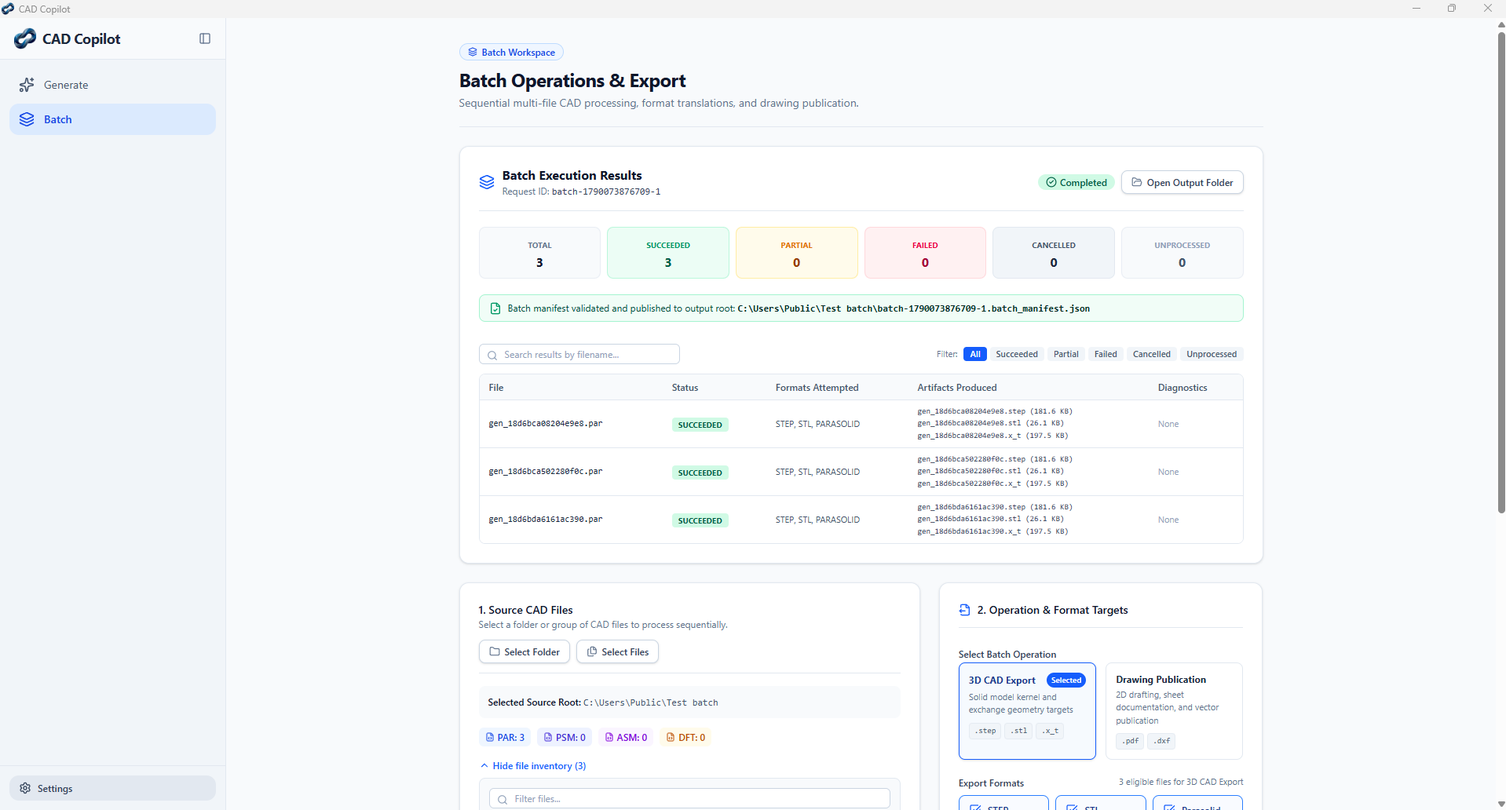
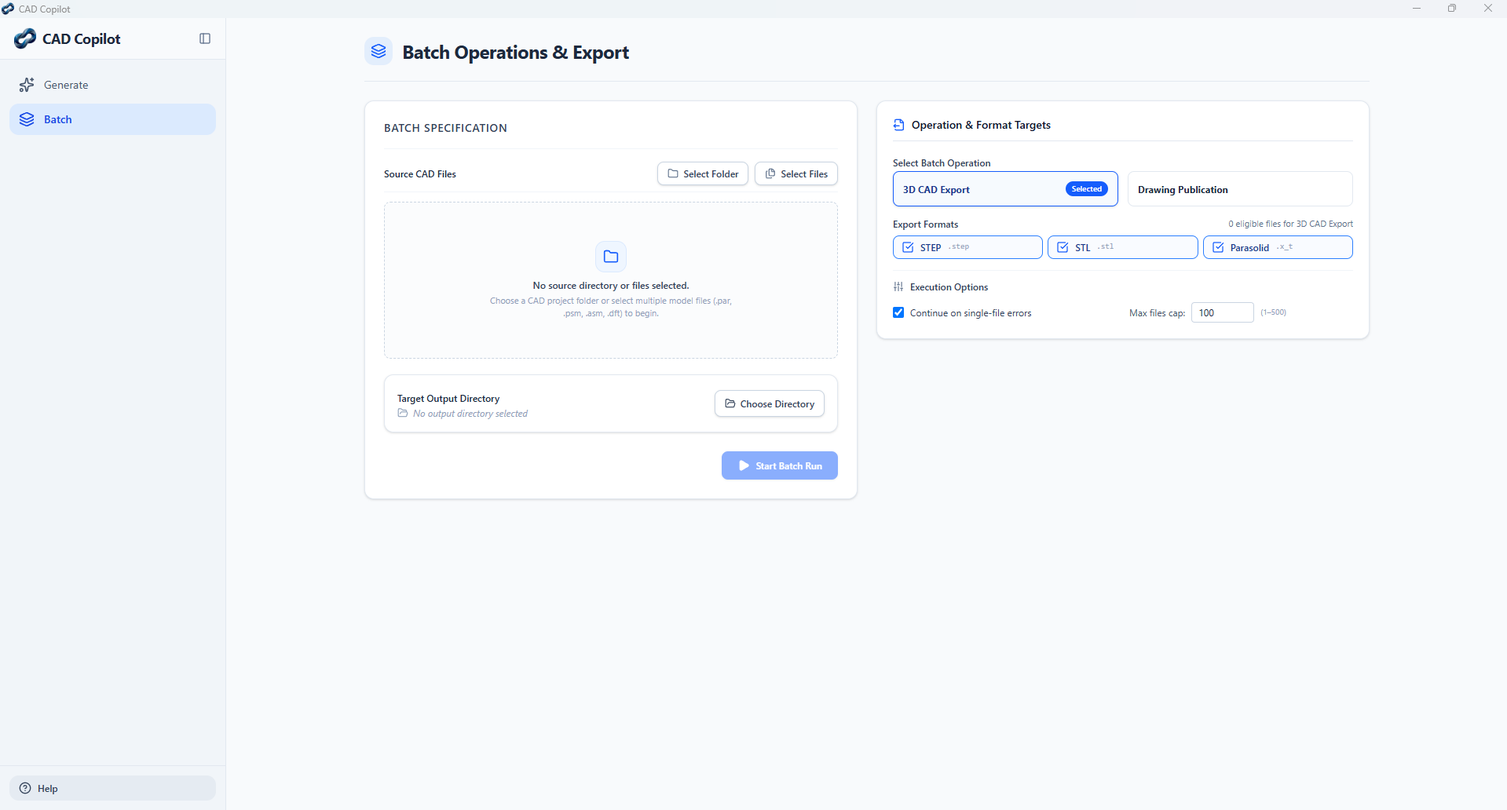
docs(desktop): [PORT-05/QA-07] document workflows and Community Edition setup

diff --git a/docs/requirements.md b/docs/requirements.md
@@ -2,7 +2,7 @@
 
 **Project**: CAD Copilot  
 **Scope**: Milestone 1 (Foundation & Domain Interfaces), Milestone 2 (Pure Domain Geometry Math), Milestone 3 (Solid Edge COM Driver & Artifact Pipeline), Milestone 4 (Generation Application Orchestration, Examples, Manifest & Stdio IPC), Milestone 5 (Batch Automation Contracts, Execution Infrastructure, Safety Boundary, Format Handlers, Parasolid Promotion, Summary Manifest Publication & Strict Stdio IPC), Milestone 6.1 (Clean Tauri/React Desktop Foundation), Milestone 6.2 (Generate Vertical Slice), Milestone 6.3 (Batch Vertical Slice), Milestone 6.4 (Desktop Packaging & Production Release Validation), Milestone 6.5 (Automated Portable Quality Gates & CI Configuration), and Milestone 6.6 (Repository Sanitization, Public Documentation & v0.1.0 Release Publication).
-**Status (22 September 2026)**: M1/M2 domain baseline and M3.0 reconciliation implemented; M3.1 runtime/lifecycle, M3.2 primitive execution and inspection, and M3.3 multi-format artifact export and pipeline finalization implemented, hardened, and verified. Milestone 4 is fully implemented, hardened, and verified across all components: M4.1 (generation application orchestration), M4.2 (optional text-only Gemini proposal adapter), M4.3 (deterministic example catalog), M4.4 (canonical run manifest and sidecar publication), and M4.5 (strict generation stdio IPC, launchers, and packaging). Milestone 4 is complete. Milestone 5 is fully implemented, hardened, and verified across all components: M5.1 (canonical batch request/response/manifest contracts, schemas, typed models, and operation metadata registry), M5.2 (batch execution infrastructure, typed bindings, pure work allocation, tracked-document task generalization, observable teardown, and shared sequential batch service orchestration), M5.3 (batch filesystem safety boundary, streaming SHA-256 source snapshots, guarded workspaces, atomic no-replace publication, and document close lifecycle hardening), M5.4 (genuine batch format handlers and native export operations for 3D model export [STEP/STL] and 2D drawing publication [PDF/DXF], drawing view refresh, assembly reference verification via FileMissing, and closed-output validation), M5.5 (conditional Parasolid export gate, promoted schema/model/registry alignment, and verified text Parasolid export [.x_t] across .par/.psm/.asm), and M5.6 (summary manifest publication, strict batch stdio transport, cooperative signal cancellation, launchers, packaging, and live integration gates). Milestone 5 is complete. Milestone 6.1 (Clean Tauri/React Desktop Foundation, FR-20), Milestone 6.2 (Generate Vertical Slice, FR-21), and Milestone 6.3 (Batch Vertical Slice, FR-22) are fully implemented, hardened, and verified across all automated, native, live COM, and desktop GUI acceptance gates (both Tauri dev and windowed release hosts). Milestone 6.4 (Desktop Packaging & Production Release Validation, FR-21/22) is complete: M6.4 packaging architecture, NSIS configuration, offline verification, per-user installation, installed Generate and Gemini success paths, installed Generate cancellation, and all 8 manual installed acceptance cases (`M6.4-ACC-01` through `M6.4-ACC-08`) are verified and closed on a licensed Siemens Solid Edge workstation. Milestone 6.5 (Automated Portable Quality Gates & CI Configuration, QA-08, RUN-10) is fully implemented, hardened, and verified: dedicated read-only three-job GitHub Actions workflow (`.github/workflows/ci.yml`), pinned action SHAs, Python CI developer constraints, honest native test-gate classification (`#[ignore]`), pre-checkout line-ending normalization on Windows, and clean hosted execution across Python 3.14.3 (`windows-2025`), Node 24.15.0/pnpm 12.4.1 (`ubuntu-24.04`), and Rust 1.95.0/Tauri (`windows-2025`) passing 100% green. Milestone 6.6 (Repository Sanitization, Public Documentation & v0.1.0 Release Publication) is in progress.
+**Status (1 October 2026)**: M1/M2 domain baseline and M3.0 reconciliation implemented; M3.1 runtime/lifecycle, M3.2 primitive execution and inspection, and M3.3 multi-format artifact export and pipeline finalization implemented, hardened, and verified. Milestone 4 is fully implemented, hardened, and verified across all components: M4.1 (generation application orchestration), M4.2 (optional text-only Gemini proposal adapter), M4.3 (deterministic example catalog), M4.4 (canonical run manifest and sidecar publication), and M4.5 (strict generation stdio IPC, launchers, and packaging). Milestone 4 is complete. Milestone 5 is fully implemented, hardened, and verified across all components: M5.1 (canonical batch request/response/manifest contracts, schemas, typed models, and operation metadata registry), M5.2 (batch execution infrastructure, typed bindings, pure work allocation, tracked-document task generalization, observable teardown, and shared sequential batch service orchestration), M5.3 (batch filesystem safety boundary, streaming SHA-256 source snapshots, guarded workspaces, atomic no-replace publication, and document close lifecycle hardening), M5.4 (genuine batch format handlers and native export operations for 3D model export [STEP/STL] and 2D drawing publication [PDF/DXF], drawing view refresh, assembly reference verification via FileMissing, and closed-output validation), M5.5 (conditional Parasolid export gate, promoted schema/model/registry alignment, and verified text Parasolid export [.x_t] across .par/.psm/.asm), and M5.6 (summary manifest publication, strict batch stdio transport, cooperative signal cancellation, launchers, packaging, and live integration gates). Milestone 5 is complete. Milestone 6.1 (Clean Tauri/React Desktop Foundation, FR-20), Milestone 6.2 (Generate Vertical Slice, FR-21), and Milestone 6.3 (Batch Vertical Slice, FR-22) are fully implemented, hardened, and verified across all automated, native, live COM, and desktop GUI acceptance gates (both Tauri dev and windowed release hosts). Milestone 6.4 (Desktop Packaging & Production Release Validation, FR-21/22) is complete: M6.4 packaging architecture, NSIS configuration, offline verification, per-user installation, installed Generate and Gemini success paths, installed Generate cancellation, and all 8 manual installed acceptance cases (`M6.4-ACC-01` through `M6.4-ACC-08`) are verified and closed on a licensed Siemens Solid Edge workstation. Milestone 6.5 (Automated Portable Quality Gates & CI Configuration, QA-08, RUN-10) is fully implemented, hardened, and verified: dedicated read-only three-job GitHub Actions workflow (`.github/workflows/ci.yml`), pinned action SHAs, Python CI developer constraints, honest native test-gate classification (`#[ignore]`), pre-checkout line-ending normalization on Windows, and clean hosted execution across Python 3.14.3 (`windows-2025`), Node 24.15.0/pnpm 12.4.1 (`ubuntu-24.04`), and Rust 1.95.0/Tauri (`windows-2025`) passing 100% green. Milestone 6.6 (Repository Sanitization, Public Documentation & v0.1.0 Release Publication) is in progress. The October 2026 desktop UI refresh candidate is documented separately below as a source-preview workspace and workflow update and does not establish release completion.
 
 The M6.4 installed results above belong to the earlier build. A future installer containing the Gemini fixes needs its own build and installed acceptance; this source preview has no downloadable installer.
 
@@ -428,7 +428,7 @@ The implementation is in `engine/src/drivers/solidedge/`. The requirements below
   - React 19 application bootstrapped with `createRoot` and `StrictMode`.
   - Exactly two primary navigation choices: `Generate` (default) and `Batch`, managed via local state without heavy routing frameworks.
   - Page roots render clear semantic headings and honest foundation status; no non-functional operational controls, fake loading states, or simulated execution.
-  - Compact settings/diagnostics panel with keyboard navigation (Escape, focus trap/return) displaying exactly 5 typed foundation rows: Output directory (`Not selected`), Solid Edge (`Not checked`), Gemini (`Not configured`), model (`Not loaded` or default), and engine version (`Not connected`). Zero input fields, zero secret storage.
+  - Accessible Help & Documentation modal (evolved from the initial diagnostics panel) with keyboard navigation (Escape, focus trap/return) providing local workflow guidance, safety boundaries, and format specifications without external network calls or secret storage.
   - Accessible design tokens, semantic landmarks, high contrast, and `prefers-reduced-motion` compliance. Tree-shaken `lucide-react` icons with accessible labels.
   - Zero Firebase, sign-in, cloud URLs, telemetry, licensing/subscription UI, 3D canvas, image upload, revision timeline, or editing controls.
 - **Native Tauri Host & Security Baseline**:
@@ -470,7 +470,7 @@ The implementation is in `engine/src/drivers/solidedge/`. The requirements below
   - Two explicit modes: `Example` (deterministic `spur_gear`, key-free, network-free) and `Prompt` (character-counted, inline expandable key editor).
   - Truthful progress and verification feedback: real-time phase updates with distinct `Checking` state during result verification, preventing premature "unavailable" messages.
   - Result view displays verified artifact cards with file formats, byte sizes, and contained "Show in folder" action.
-  - Modal focus trapping, Escape dismissal, and focus restoration for close confirmation dialogs.
+  - Modal focus trapping, Escape dismissal, and focus restoration for close confirmation dialogs and Help modal.
 
 ### FR-22: Batch Operations Vertical Slice (Milestone 6.3 — Delivered & Verified)
 - **Native Source Authority & Selection**:
@@ -506,11 +506,11 @@ The implementation is in `engine/src/drivers/solidedge/`. The requirements below
   - Manifest derivation (`<output_root>/<request_id>.batch_manifest.json`) bounded to 10 MiB; read-back validation against canonical `batch-manifest-v1.schema.json` and semantic agreement with stdout response.
   - Clear UI distinction: "Manifest validated" vs "Manifest unavailable" (retaining valid engine response accounting).
   - Explorer reveal strictly limited to bound output root with no shell interpolation.
-- **Scoped Diagnostics & Operation-Aware Window Close**:
+- **Help Modal, Scoped Context & Operation-Aware Window Close**:
   - Window close requests dispatched by active run claim: Batch owner sets Batch `closeRequested` and emits `batch-state`; Generate owner routes to Generate resolver.
   - Accessible confirmation dialog with operation-specific copy ("Batch Operation in Progress" vs "Generation in Progress") and Keep running / Cancel and close actions.
-  - Diagnostics output path scoped to active tab: `currentView === 'batch' ? batch.snapshot.output?.displayPath : generation.snapshot.output?.displayPath` with "Not selected" fallback and zero cross-tab pollution.
-  - Zero leakage of API keys, CAD file contents, or raw stderr stack traces. Local filesystem paths are restricted strictly to user-selected source/output roots and selected files displayed for in-app transparency (in Batch cards, state snapshots, active-tab Diagnostics, and local selection validation error banners) and are never exposed in external telemetry, wire diagnostics, or published manifest sidecars.
+  - Accessible Help modal (opened from the sidebar footer) provides dedicated guidance on batch workflows, input kinds, output targets, and safety boundaries with keyboard focus containment and Escape dismissal.
+  - Zero leakage of API keys, CAD file contents, or raw stderr stack traces. Local filesystem paths are restricted strictly to user-selected source/output roots and selected files displayed for in-app transparency (in Batch cards, state snapshots, and local selection validation error banners) and are never exposed in external telemetry, wire diagnostics, or published manifest sidecars.
 
 ---
 
@@ -1020,11 +1020,11 @@ This section defines acceptance criteria specifically for the Milestone 6.3 Batc
    - Clear UI distinction: "Manifest validated" vs "Manifest unavailable" (retaining valid engine response accounting).
    - Explorer reveal strictly limited to bound output root with no shell interpolation.
 
-7. **Scoped Diagnostics & Operation-Aware Window Close (FR-22, SE-03, SEC-07)**:
+7. **Help Modal, Operation-Aware Window Close & Workflow Safeguards (FR-22, SE-03, SEC-07)**:
    - Window close requests dispatched by active run claim: Batch owner sets Batch `closeRequested` and emits `batch-state`; Generate owner routes to Generate resolver.
    - Accessible confirmation dialog with operation-specific copy ("Batch Operation in Progress" vs "Generation in Progress") and Keep running / Cancel and close actions.
-   - Diagnostics output path scoped to active tab: `currentView === 'batch' ? batch.snapshot.output?.displayPath : generation.snapshot.output?.displayPath` with "Not selected" fallback and zero cross-tab pollution.
-   - Zero leakage of API keys, CAD file contents, or raw stderr stack traces. Local filesystem paths are restricted strictly to user-selected source/output roots and selected files displayed for in-app transparency (in Batch cards, state snapshots, active-tab Diagnostics, and local selection validation error banners) and are never exposed in external telemetry, wire diagnostics, or published manifest sidecars.
+   - In-app Help modal accessible from the sidebar footer provides immediate guidance on batch workflows, format constraints, and safety policies with strict keyboard focus containment.
+   - Zero leakage of API keys, CAD file contents, or raw stderr stack traces. Local filesystem paths are restricted strictly to user-selected source/output roots and selected files displayed for in-app transparency (in Batch cards, state snapshots, and local selection validation error banners) and are never exposed in external telemetry, wire diagnostics, or published manifest sidecars.
 
 8. **Milestone 6.3 Verification Gate Summary (Automated, Native, Live COM & Live Desktop Acceptance)**:
    - Automated Rust & native baseline: **114 passed, 0 failed** (100 unit tests, 10 `batch_lifecycle` integration tests, and 4 `generation_lifecycle` integration tests). Proved real Python child processes under both Windows console topologies (shared console and private hidden console with `CREATE_NEW_CONSOLE` + `SW_HIDE`), targeted `CTRL_BREAK_EVENT` delivery, cooperative child unwind (exit code 0 with schema-valid partial accounting, and exit code 130 pre-handler), and zero signal leakage to unrelated processes. Clippy clean with 0 warnings (`cargo clippy --locked --all-targets -- -D warnings`); formatting clean (`cargo fmt --all -- --check`); native Windows compilation clean (`cargo check --locked`).
@@ -1089,3 +1089,35 @@ This section defines acceptance criteria for Milestone 6.5, establishing authori
    - Packaged engine lifecycle tests in `desktop/src-tauri/tests/packaged_engine_lifecycle.rs` marked with `#[ignore = "Requires staged engine payload at engine/dist/cad-copilot-engine/cad-copilot-engine.exe"]` and failing closed if invoked without the staged binary.
    - Hosted CI makes zero claims of live Solid Edge automation, live Gemini API integration, NSIS installer creation, or GUI observation.
    - The historical M6.4 installed acceptance cases do not qualify a future installer containing the Gemini changes; that build requires its own installed acceptance.
+
+### Desktop UI Refresh & Workflow Hardening Candidate (1 October 2026)
+
+This section specifies the verified criteria for the desktop UI refresh candidate (`9847675`), hardening UI workflows and documentation prior to final release publication:
+
+1. **Workspace Visual & Structural Alignment**:
+   - Both Generate and Batch workspaces use responsive two-column layouts on wide displays (`grid grid-cols-1 lg:grid-cols-12`) that stack cleanly into a single column on smaller viewports.
+   - Batch specification organizes configuration into a unified card flow: Source Selection Card, Target Output Card, and Start Action on the left, with Batch Operations & Format selection on the right (transitioning to Live Progress or Execution Results upon run start), eliminating disjointed or floating controls.
+   - Consistent card styling, badge indicators, borders, accessible typography, and polite live status announcement regions across both workspaces.
+
+2. **Target Output Directory Alignment**:
+   - Both workspaces share consistent Target Output Directory handling: clear folder browsing triggers, prominent display of bound paths, active validation warnings when unselected, and format destination disclosures.
+   - Authoritative output folder binding with opaque selection IDs and native path verification; frontend never submits arbitrary or unbounded paths.
+
+3. **Batch Selection Race Protection & Authoritative Snapshots**:
+   - Native file and folder selection operations assert `isSelectionPending`, disabling the Start button and both source/output folder pickers until scanning completes.
+   - Direct frontend state updates replaced with authoritative snapshots using monotonic revision checks, preventing delayed or out-of-order native scan responses from overwriting newer selections.
+
+4. **Help & Documentation Modal**:
+   - Replaced baseline foundation diagnostics panel with an accessible in-app `HelpPanel` modal.
+   - Comprehensive workflow guidance, deterministic first-run instructions, safety boundary explanations, and format matrices provided locally without network dependencies.
+   - Opened from the sidebar footer with keyboard focus trapping, Escape dismissal, and focus restoration to the triggering button.
+
+5. **Terminal Outcome Preservation, Close Interception & Cleanup Warnings**:
+   - Generation and Batch terminal execution outcomes are durably preserved across tab navigation and subsequent non-destructive interactions until explicitly rerun or cleared.
+   - App-wide `run_claim` coordinator prevents concurrent execution between Generate and Batch.
+   - Window close interception protects in-flight operations with an accessible confirmation dialog presenting a clear choice to keep running or cancel.
+   - If an engine run requires force termination or leaves cleanup incomplete, the UI explicitly warns that background CAD processes or file locks may persist, blocks new runs, and instructs the user to restart the application.
+
+6. **Documentation & Siemens Community Edition Boundary**:
+   - Public documentation (`README.md`, `docs/getting-started.md`, `docs/solid-edge-community-edition.md`, `docs/verification.md`, `docs/requirements.md`) accurately describes source-run workflows, deterministic example evaluation, and safety boundaries.
+   - Clear disclosure of Siemens Solid Edge Community Edition availability for free personal/non-commercial use, accompanied by an explicit boundary that full automated COM compatibility remains uncertified pending dedicated qualification.

diff --git a/README.md b/README.md
@@ -16,13 +16,13 @@ CAD Copilot is an open-source Windows desktop application that converts natural-
 - **Local-First Privacy & Optional AI:** CAD processing and output files stay local, with no telemetry. Optional Gemini prompt generation sends the text request to Google using a session-supplied API key. Deterministic examples and batch translation need no key or network connection.
 - **Process Lifecycle & Safety:** A dedicated Solid Edge COM worker, targeted cancellation, bounded execution, and atomic output publication protect failed and cancelled runs.
 
-![CAD Copilot Batch Workspace (.par Multi-File Export)](docs/media/batch-workspace.png)
+![CAD Copilot Batch Operations & Export Workspace](docs/media/batch-workspace.png)
 
 ---
 
 ## Run from Source
 
-The current preview runs from source on Windows 10/11 (64-bit) with a locally installed, licensed copy of Siemens Solid Edge®. Install the Python, Node.js/pnpm, and Rust toolchains described in the **[Getting Started Guide](docs/getting-started.md)**, then launch the Tauri development app with `pnpm --filter @cad-copilot/desktop tauri dev`.
+The current preview runs from source on Windows 10/11 (64-bit) with a local installation of Siemens Solid Edge®. Siemens offers **[Solid Edge Community Edition](docs/solid-edge-community-edition.md)** free of charge for personal, non-commercial use. Install the Python, Node.js/pnpm, and Rust toolchains described in the **[Getting Started Guide](docs/getting-started.md)**, then launch the Tauri development app with `pnpm --filter @cad-copilot/desktop tauri dev`.
 
 A downloadable installer is planned after the updated build passes separate installed acceptance.
 
@@ -56,12 +56,12 @@ CAD Copilot maintains strict separation between automated portable gates and liv
 | Layer | Scope & Test Count | Verification Boundary |
 | :--- | :--- | :--- |
 | **Python Engine** | 2,473 passed, 4 skipped, 56 deselected | Gemini-fix source candidate: offline pytest, strict MyPy, Ruff linter & formatter |
-| **Desktop Frontend** | 90 passed across 9 test files | Vitest suites |
+| **Desktop Frontend** | 98 passed across 8 test files | Vitest suites, TypeScript typecheck, ESLint, Prettier, production Vite build |
 | **Rust Desktop Host** | 131 passed, 8 ignored | Default Cargo test suite |
 | **Live Source-App Checks** | Three repeated pad-and-through-hole runs inspected | Saved Solid Edge parts and canonical manifests on a licensed workstation |
 | **Hosted CI Pipeline** | 3 portable jobs configured | GitHub records results for each pull request commit |
 
-*Hosted GitHub Actions runners execute portable checks; live Solid Edge COM automation requires a licensed Windows workstation. Installed acceptance for the updated build remains pending. See **[Verification Evidence](docs/verification.md)** for the current source-candidate boundary.*
+*Hosted GitHub Actions runners execute portable checks; live Solid Edge COM automation requires a licensed Windows workstation. Installed acceptance for the updated build remains pending. See **[Verification Evidence](docs/verification.md)** for detailed evidence and component records.*
 
 ---
 

diff --git a/docs/solid-edge-community-edition.md b/docs/solid-edge-community-edition.md
@@ -1,0 +1,44 @@
+# Solid Edge® Community Edition Setup & Availability
+
+Siemens offers **Solid Edge® Community Edition** free of charge for personal, hobbyist, and non-commercial educational use. This document outlines the official download resource, known edition restrictions, and CAD Copilot's current compatibility boundary.
+
+---
+
+## 1. Official Download & Licensing
+
+You can obtain Solid Edge Community Edition directly from Siemens:
+
+- **Official Download Portal:** [Siemens — Solid Edge Community Edition Download](https://resources.sw.siemens.com/en-US/download-solid-edge-community-edition/)
+- **Eligibility:** Free for personal, non-commercial use (individual makers, hobbyists, and learners).
+- **Operating System:** Windows 10 or Windows 11 (64-bit). Siemens specifies supported Windows Professional and Enterprise editions and excludes Windows Home; see [Siemens Solid Edge System Requirements](https://solidedge.siemens.com/en/resources/system-requirements/).
+- **Source Prerequisites:** For the complete developer environment toolchains (Python, Node.js/pnpm, Rust), see the **[Getting Started Guide](getting-started.md)**.
+
+---
+
+## 2. Siemens Edition Boundaries & Restrictions
+
+Siemens specifies distinct boundaries for Community Edition compared to commercial licenses:
+
+1. **Non-Commercial Use Only:** Community Edition is strictly intended for personal, non-commercial projects.
+2. **File Interoperability Boundary:** Native part (`.par`), sheet metal (`.psm`), and assembly (`.asm`) files saved in Community Edition cannot be opened in commercial installations of Solid Edge.
+3. **2D Drawing Watermarks:** 2D drawings (`.dft`) created with Solid Edge Community Edition include a visible watermark.
+
+---
+
+## 3. CAD Copilot Compatibility Status
+
+CAD Copilot interacts with local Solid Edge installations through standard public Windows COM Dispatch interfaces (`SolidEdge.Application`).
+
+> **Compatibility Boundary Note:**
+> The official availability of Community Edition is established above. However, complete end-to-end COM automation and all multi-format batch conversions (`.step`, `.stl`, `.x_t`, `.pdf`, `.dxf`) have not yet been separately certified against Community Edition in this preview. Historical live automated qualification was conducted on a licensed installation of Siemens Solid Edge 2026 (`build 226.00.00.106`).
+
+---
+
+## 4. Recommended First Run
+
+When testing your local Solid Edge installation with CAD Copilot:
+
+1. Launch Solid Edge once manually to confirm proper Windows registration and set your default environment to **Ordered** mode.
+2. Launch CAD Copilot via `pnpm --filter @cad-copilot/desktop tauri dev`.
+3. In the **Design Workspace**, select the default **Example (Spur Gear)** mode and choose an output directory.
+4. Click **Run CAD Generation**. This deterministic path verifies COM connection, part creation, and artifact export completely locally without requiring an API key or network access.

diff --git a/docs/verification.md b/docs/verification.md
@@ -15,6 +15,27 @@ The Gemini-fixed source candidate was checked locally on 25 September 2026:
 
 The repository's three GitHub Actions jobs check portable Python, frontend, and Rust behavior. GitHub records their results for each pull request commit. Hosted runners do not execute Solid Edge COM or a live Gemini request.
 
+## Desktop UI & workflow verification (1 October 2026)
+
+The desktop UI refresh candidate was committed at `9847675` (`feat(desktop): [FR-20/21/22] refresh workspaces and harden UI workflows`). The portable frontend gates and UI workflow safeguards were verified locally:
+
+| Suite / Gate | Command | Result |
+| :--- | :--- | :--- |
+| Frontend tests | `pnpm --filter @cad-copilot/desktop test` (Vitest) | **98 passed across 8 test files** (0 failed) |
+| TypeScript typecheck | `pnpm --filter @cad-copilot/desktop typecheck` (`tsc -b --noEmit`) | **0 errors** |
+| Frontend linter | `pnpm --filter @cad-copilot/desktop lint` (`eslint . --max-warnings=0`) | **0 warnings, 0 errors** |
+| Code formatting | `pnpm --filter @cad-copilot/desktop format:check` (`prettier --check .`) | **Passed** |
+| Production build | `pnpm build:desktop` (`vite build`) | **Built successfully** (`dist/index.html`, `dist/assets/`) |
+| Git whitespace | `git diff --check` | **Clean** (0 whitespace errors) |
+
+### Verified behavior & workflow safeguards
+
+- **Batch Selection Race Protection:** Native folder and file selection operations assert `isSelectionPending`, which disables the Start button and file/directory pickers during active selection. Direct state updates were replaced with authoritative snapshots using monotonic revision checks, preventing older native scanning responses from overwriting newer selections.
+- **Output Directory Alignment:** Target Output Directory cards across both Generate and Batch modes are structurally and visually aligned with clear browsing triggers, bound path presentation, validation warnings when unselected, and authoritative directory containment.
+- **Help & Documentation Migration:** The foundation diagnostics panel was replaced with an accessible `HelpPanel` modal (opened from the sidebar footer) containing quickstart guidance, safety boundaries, and format specifications, with keyboard focus trapping, Escape dismissal, and focus return.
+- **Terminal State Preservation:** Batch and Generate terminal outcome results are preserved on navigation or subsequent state transitions until explicitly cleared or rerun.
+- **Live User Smoke Checks:** User reports successful live operation after the UI updates. *(Note: These user observations were conducted directly on the local workstation and were not independently rerun by the reviewer in this verification cycle).*
+
 ## Live Solid Edge checks
 
 The source-run Tauri app was exercised on a licensed Siemens Solid Edge 2026 workstation. Saved parts and canonical `run_manifest.json` plans were inspected, including:

diff --git a/docs/getting-started.md b/docs/getting-started.md
@@ -11,7 +11,7 @@ This source preview runs on Windows 10/11 (64-bit). A downloadable installer is 
 ### CAD and Network
 
 - **Operating System:** Windows 10 or Windows 11 (64-bit).
-- **CAD Kernel:** Locally installed and licensed Siemens Solid Edge® (tested on Solid Edge 2026, build `226.00.00.106`).
+- **CAD Kernel:** Locally installed Siemens Solid Edge® (tested on Solid Edge 2026, build `226.00.00.106`). Siemens also offers a free personal-use **[Community Edition](solid-edge-community-edition.md)**.
 - **Network / API Key:** None required for deterministic examples or batch export workflows. An optional Google Gemini API key is required only if you use natural-language prompt generation.
 
 ### Development Toolchains
@@ -59,9 +59,10 @@ pnpm --filter @cad-copilot/desktop tauri dev
 
 ### First-Run Guidance
 
-- **Solid Edge Session:** Ensure Siemens Solid Edge is installed. If Solid Edge is not already running, CAD Copilot will launch a visible session upon the first generation or batch operation.
-- **Ordered Mode:** If Solid Edge shows a Synchronous/Ordered mode choice, select **Ordered** and check **"Do not show this dialog again"** so the modal does not pause automation.
-- **Gemini (Optional):** Open **Configure Gemini** in Generate to enter an API key for this session. Prompt text is sent to Google only when you run prompt generation; CAD Copilot does not save the key to disk.
+- **Recommended First Run:** In the Design Workspace, start with the default **Example (Spur Gear)** mode, choose an output folder, and click **Run CAD Generation**. This deterministic example exercises the live COM interface and exports complete part, STEP, and STL models without requiring an API key or network access.
+- **Solid Edge Session:** Ensure Siemens Solid Edge is installed on Windows. If Solid Edge is not already running, CAD Copilot will automatically launch a visible session upon the first generation or batch operation.
+- **Ordered Mode:** If Solid Edge presents a Synchronous/Ordered mode choice dialog on startup, choose **Ordered** and check **"Do not show this dialog again"** so the modal does not block automation.
+- **Gemini (Optional):** To generate models from natural-language descriptions, switch to **Prompt to CAD**. When no key is configured for the session, the key editor automatically expands to let you enter an API key immediately. Your prompt is transmitted to Google Gemini solely during prompt generation; CAD Copilot keeps the key in memory only and never saves it to disk.
 
 Review the saved Solid Edge part and `run_manifest.json` to confirm feature count, dimensions, and faces for prompt-generated models.
 
